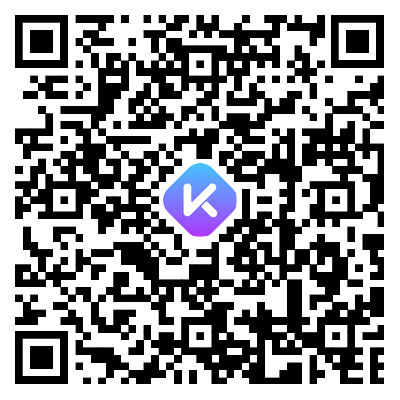
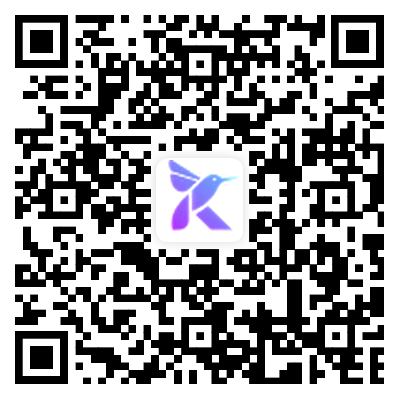
update readme qrcode (#331)
* docs: update readme qrcode

* modify kuikly logo size

Changed region(s): [[0.36, 0.36, 0.66, 0.63]]

diff --git a/README.md b/README.md
@@ -1,6 +1,6 @@
 
 <p align="center">
-    <img alt="Kuikly Logo"  src="img/kuikly_logo.svg" />
+    <img alt="Kuikly Logo"  src="img/kuikly_logo.svg" width="200" />
 </p>
 
 English | [简体中文](./README-zh_CN.md) | [Homepage](https://framework.tds.qq.com/)
@@ -156,11 +156,11 @@ Scan the QR codes below to follow our latest updates or contact us for inquiries
 <p align="left">
     <div style="display: inline-block; text-align: center; margin-right: 20px;">
         <div>TDS WeChat Official Account</div>
-        <img alt="TDS" src="img/tds_qrcode.jpg" width="200" />
+        <img alt="TDS" src="img/tds_qrcode.jpeg" width="200" />
     </div>
     <div style="display: inline-block; text-align: center; margin-right: 20px;">
         <div>TDS Framework WeChat Official Account</div>
-        <img alt="TDS Framework WeChat Official Account" src="img/tds_framework_qrcode.jpg" width="200" />
+        <img alt="TDS Framework WeChat Official Account" src="img/tds_framework_qrcode.jpeg" width="200" />
     </div>
     <div style="display: inline-block; text-align: center;">
         <div>Online Support</div>

diff --git a/README-zh_CN.md b/README-zh_CN.md
@@ -1,5 +1,5 @@
 <p align="center">
-    <img alt="Kuikly Logo"  src="img/kuikly_logo.svg" />
+    <img alt="Kuikly Logo"  src="img/kuikly_logo.svg" width="200" />
 </p>
 
 [English](./README.md) | 简体中文 | [官网](https://framework.tds.qq.com/)
@@ -158,11 +158,11 @@ KuiklyUI目录下有各个`Kotlin`版本的gradle配置项
 <p align="left">
     <div style="display: inline-block; text-align: center; margin-right: 20px;">
         <div>腾讯端服务微信公众号</div>
-        <img alt="TDS" src="img/tds_qrcode.jpg" width="200" />
+        <img alt="TDS" src="img/tds_qrcode.jpeg" width="200" />
     </div>
     <div style="display: inline-block; text-align: center; margin-right: 20px;">
         <div>TDS Framework 微信公众号</div>
-        <img alt="TDS Framework" src="img/tds_framework_qrcode.jpg" width="200" />
+        <img alt="TDS Framework" src="img/tds_framework_qrcode.jpeg" width="200" />
     </div>
     <div style="display: inline-block; text-align: center;">
         <div>在线咨询</div>
